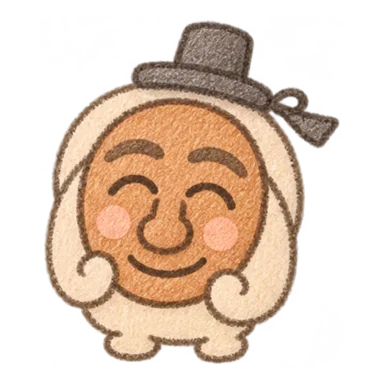
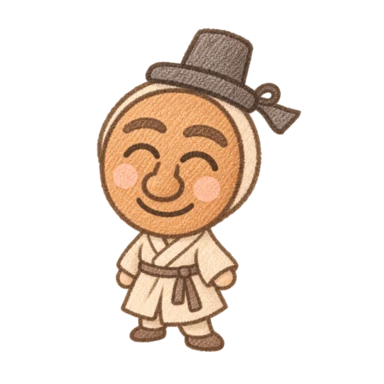
곰고미 0.9.65 · 도롱이의 그림, 움직임과 오프라인 AI

diff --git a/src/features/home/HomeView.tsx b/src/features/home/HomeView.tsx
@@ -162,8 +162,7 @@ export function HomeView({ today, itemCount, albumCount, diaryCount, onShowLibra
     }
     if (context.definition.activityVoices && context.action === "touch") {
       const tone = owned.affection >= 20 ? "highAffection" : "idle";
-      showActivityReply(chooseCompanionFallback(owned.id, dialogueLines(context.definition, owned.growthStage, tone, owned.affection)));
-      return;
+      context = { ...context, fallback: chooseCompanionFallback(owned.id, dialogueLines(context.definition, owned.growthStage, tone, owned.affection)) };
     }
     setAiStatus("generating");
     retryContext.current = { ...context, owned };
@@ -183,7 +182,7 @@ export function HomeView({ today, itemCount, albumCount, diaryCount, onShowLibra
       basis:restLine || lines[next], touchLines:lines,
     }));
     setSpokenLine(undefined);
-    setAiStatus(definition.activityVoices || (isGomi && !gomiCanSpeak(mainCharacter.affection)) ? "idle" : "generating");
+    setAiStatus(isGomi && !gomiCanSpeak(mainCharacter.affection) ? "idle" : "generating");
     setAiFailure("");
     if (definition && mainCharacter) {
       const memory = readCompanionMemory(mainCharacter.id);
@@ -221,12 +220,11 @@ export function HomeView({ today, itemCount, albumCount, diaryCount, onShowLibra
     saveCompanionMemory(mainCharacter.id, result.memory);
     setAiFailure("");
     const voice = definition.activityVoices?.[action];
-    if (voice?.length) {
-      showActivityReply(chooseCompanionFallback(mainCharacter.id, voice));
-    } else if (action === "treat" && definition.treatLabel) {
+    if (action === "treat" && definition.treatLabel) {
       showActivityReply(result.line);
     } else {
-      const fallback = isGomi && !gomiCanSpeak(mainCharacter.affection) ? "" : chooseCompanionFallback(mainCharacter.id, companionFallbackCandidates({
+      const fallback = voice?.length ? chooseCompanionFallback(mainCharacter.id, voice) :
+        isGomi && !gomiCanSpeak(mainCharacter.affection) ? "" : chooseCompanionFallback(mainCharacter.id, companionFallbackCandidates({
         gomi:Boolean(isGomi), affection:mainCharacter.affection, action, sleeping, disturbed, basis:result.line,
       }));
       setSpokenLine(undefined);
@@ -270,7 +268,6 @@ export function HomeView({ today, itemCount, albumCount, diaryCount, onShowLibra
                   aiStatus === "failed" ? aiFailure :
                   aiStatus === "watching" ? `${definition ? characterName(definition, mainCharacter) : "친구"}의 모습을 조용히 지켜보고 있어요.` :
                   isGomi && !gomi.ready ? "친구를 준비하고 있어요." :
-                  definition?.activityVoices ? "친구를 터치해 말을 걸어 보세요." :
                   definition ? "친구를 터치하면 AI가 새로운 대사를 만들어요." : "친구를 선택하면 AI와 대화할 수 있어요."}
               </p>}
           {aiStatus === "failed" && retryContext.current && <button type="button" className="homeReactionRetry" onClick={() => {
@@ -280,6 +277,12 @@ export function HomeView({ today, itemCount, albumCount, diaryCount, onShowLibra
             setAiFailure("");
             ai.react(context);
           }}>대사 다시 생성</button>}
+          {aiStatus === "failed" && definition?.activityVoices && retryContext.current?.fallback && (
+            <button type="button" className="homeReactionRetry" onClick={() => {
+              const context = retryContext.current;
+              if (context?.owned.id === mainCharacter?.id && context?.fallback) showActivityReply(context.fallback);
+            }}>기본 대사 보기</button>
+          )}
         </div>
         <button className={`homeMascot${happy ? " happy" : ""}`} type="button" aria-label={`${definition ? characterName(definition, mainCharacter) : "곰고미"}에게 말 걸기`} onClick={talk}>
           {definition && mainCharacter ? <CharacterVisual definition={definition} stage={mainCharacter.growthStage} expression={happy ? "happy" : "idle"}
@@ -289,7 +292,7 @@ export function HomeView({ today, itemCount, albumCount, diaryCount, onShowLibra
         </button>
         {definition && mainCharacter && <p className="homeCharacterMeta"><strong>{characterName(definition, mainCharacter)}</strong><span className="homeAffection"><Heart size={14} aria-hidden="true" />친밀도 {mainCharacter.affection}</span></p>}
         {definition && mainCharacter && <div className="homeActivities">
-          {!definition.activityVoices && <button type="button" className="homeActivitiesToggle" data-help="companion-ai" onClick={() => setAiSetupOpen(true)}>AI 반응 설정</button>}
+          <button type="button" className="homeActivitiesToggle" data-help="companion-ai" onClick={() => setAiSetupOpen(true)}>AI 반응 설정</button>
           <button type="button" className="homeActivitiesToggle" aria-expanded={activitiesOpen} aria-controls="homeActivitiesChoices"
             data-help="companion-actions" onClick={() => setActivitiesOpen(value => !value)}>
             함께하기 <ChevronDown size={17} aria-hidden="true" className={activitiesOpen ? "expanded" : ""} />

diff --git a/src/features/characters/ownAi/worker.ts b/src/features/characters/ownAi/worker.ts
@@ -1,27 +1,40 @@
 import {generateOwnLine, loadOwnModel, type OwnInput} from "./engine";
 
-// This URL is an APK/Vite-owned asset, never a remote model service.
-const loadStarted = performance.now();
-const loaded = fetch(new URL("/character-ai/manifest.json", self.location.origin),{cache:"no-store"}).then(async manifestResponse => {
-  if (!manifestResponse.ok) throw new Error("AI_OWN_MODEL_MISSING");
-  const manifest=await manifestResponse.json();
-  if (manifest.id!=="own-character-v3"||manifest.file!=="model.json"||manifest.bytes>2_000_000||!/^[0-9a-f]{64}$/.test(manifest.sha256)) throw new Error("AI_OWN_MODEL_INVALID");
-  const response=await fetch(new URL("/character-ai/model.json",self.location.origin),{cache:"no-store"});
+type Weights = {file:string;bytes:number;sha256:string};
+async function loadWeights(asset: Weights | undefined, filename: "model.json" | "dorongi.json") {
+  if (!asset || asset.file!==filename || asset.bytes>2_000_000 || !/^[0-9a-f]{64}$/.test(asset.sha256)) throw new Error("AI_OWN_MODEL_INVALID");
+  const response=await fetch(new URL("/character-ai/"+filename,self.location.origin),{cache:"no-store"});
   if (!response.ok) throw new Error("AI_OWN_MODEL_MISSING");
   const bytes = await response.text();
   if (bytes.length > 2_000_000) throw new Error("AI_OWN_MODEL_INVALID");
   const encoded=new TextEncoder().encode(bytes);
   const digest=Array.from(new Uint8Array(await crypto.subtle.digest("SHA-256",encoded)),x=>x.toString(16).padStart(2,"0")).join("");
-  if(encoded.length!==manifest.bytes||digest!==manifest.sha256) throw new Error("AI_OWN_MODEL_INVALID");
-  const model = loadOwnModel(JSON.parse(bytes));
-  self.postMessage({type:"ready", bytes:new TextEncoder().encode(bytes).length, loadMs:performance.now()-loadStarted});
-  return model;
+  if(encoded.length!==asset.bytes||digest!==asset.sha256) throw new Error("AI_OWN_MODEL_INVALID");
+  return loadOwnModel(JSON.parse(bytes));
+}
+
+// The manifest and both weight files are APK/Vite-owned assets.
+const loadStarted = performance.now();
+const loaded = fetch(new URL("/character-ai/manifest.json", self.location.origin),{cache:"no-store"}).then(async response => {
+  if (!response.ok) throw new Error("AI_OWN_MODEL_MISSING");
+  const manifest=await response.json();
+  if (manifest.id!=="own-character-v3") throw new Error("AI_OWN_MODEL_INVALID");
+  const model=await loadWeights(manifest,"model.json");
+  self.postMessage({type:"ready", bytes:manifest.bytes, loadMs:performance.now()-loadStarted});
+  return {model,dorongi:manifest.dorongi as Weights | undefined};
 });
 loaded.catch(error => self.postMessage({type:"load-error",error:String(error)}));
+let dorongiLoaded: ReturnType<typeof loadWeights> | undefined;
 self.onmessage = async (event: MessageEvent<{id:number;input:OwnInput;seed:number}>) => {
   const {id,input,seed} = event.data;
   try {
-    const model = await loaded, started = performance.now();
+    const base = await loaded, started = performance.now();
+    const model = input.characterId==="apple"
+      ? await (dorongiLoaded ??= loadWeights(base.dorongi,"dorongi.json").catch(error => {
+          dorongiLoaded = undefined;
+          throw error;
+        }))
+      : base.model;
     const line = generateOwnLine(model,input,seed);
     self.postMessage({id,type:"reply",line,generationMs:performance.now()-started});
   } catch (error) { self.postMessage({id,type:"error",error:String(error)}); }

diff --git a/tests/characters.spec.ts b/tests/characters.spec.ts
@@ -402,11 +402,12 @@ test('all current designs are legible in a narrow book and the seagull gift foll
   await page.screenshot({path:'preview-results/audit/seagull-home-393.png'});
 });
 
-test('Dorongi speaks in his own voice on touch, in activities and in Help', async ({page}) => {
+test('Dorongi offers his own basic lines when AI fails and still speaks in Help', async ({page}) => {
   await installSnapshot(page,[companion('apple',3,true)]);
   await page.goto('/');
   const mascot=page.getByRole('button',{name:'도롱이에게 말 걸기',exact:true});
   const reply=page.locator('#homeMessage[data-source="activity"]');
+  const basic=page.getByRole('button',{name:'기본 대사 보기',exact:true});
   const scholar = JSON.parse(readFileSync('src/features/characters/data/characterDefinitions.json','utf8'))
     .find((friend:{id:string})=>friend.id==='apple') as {
       dialogues:{situations:{idle:string[]};stages:Record<string,string[]>};
@@ -414,13 +415,18 @@ test('Dorongi speaks in his own voice on touch, in activities and in Help', asyn
       personality:{helpVoices:string[][]};
     };
   const touchLines=[...scholar.dialogues.situations.idle,...scholar.dialogues.stages['3']];
-  const expectReply=async (pool:string[])=>expect.poll(async()=>pool.includes(await reply.innerText())).toBe(true);
+  const expectReply=async (pool:string[])=>{
+    await expect(page.locator('#homeMessage')).toHaveAttribute('data-state','failed');
+    await expect(page.getByRole('button',{name:'대사 다시 생성',exact:true})).toBeVisible();
+    await basic.click();
+    await expect.poll(async()=>pool.includes(await reply.innerText())).toBe(true);
+  };
   await mascot.click();
   await expectReply(touchLines);
   const first=await reply.innerText();
   await mascot.click();
-  await expect(reply).not.toHaveText(first);
   await expectReply(touchLines);
+  await expect(reply).not.toHaveText(first);
   await expect(page.locator('.homeCharacterMeta')).toContainText('친밀도 1');
   await page.getByRole('button',{name:'함께하기',exact:true}).click();
   for (const [action,label] of [['walk','함께 산책'],['treat','햇살 선물'],['pet','쓰다듬기'],['play','함께 놀기'],['rest','함께 쉬기']]) {
@@ -437,11 +443,12 @@ test('Dorongi speaks in his own voice on touch, in activities and in Help', asyn
   await expect.poll(async()=>scholar.personality.helpVoices[0].includes(await help.locator('.helpVoice').innerText())).toBe(true);
 });
 
-test('Dorongi keeps a saved nickname and shares his feelings when closer', async ({page}) => {
+test('Dorongi keeps a saved nickname and his close basic dialogue', async ({page}) => {
   await installSnapshot(page,[{...companion('apple',3,true),customName:'해실',affection:29}]);
   await page.goto('/');
   const mascot=page.getByRole('button',{name:'해실에게 말 걸기',exact:true});
   await mascot.click();
+  await page.getByRole('button',{name:'기본 대사 보기',exact:true}).click();
   await expect(page.locator('#homeMessage[data-source="activity"]')).toHaveText(
     '그대가 내 이름을 먼저 불러 주니, 오늘은 숨을 곳이 없구려. …기쁜 뜻이오.',
   );

diff --git a/tests/own-companion-chat.spec.ts b/tests/own-companion-chat.spec.ts
@@ -31,6 +31,31 @@ test('real bundled model produces short new lines for five actions without exter
   await expect(page.locator('.homeCharacterMeta')).toContainText('친밀도 95');expect(external).toEqual([]);
 });
 
+test('Dorongi uses the locally bundled voice for touch and all five actions', async ({page}) => {
+  await installOwnAi(page,{characterId:'apple',affection:44});
+  await page.goto('/');
+  const bubble=page.locator('#homeMessage');
+  const expectVoice=async (meaning:RegExp)=>{
+    await expect(bubble).toHaveAttribute('data-source','on-device');
+    await expect(bubble).toContainText(meaning);
+    await expect(bubble).toContainText(/소[.!?]|구려[.!?]|시게[.!?]|하오[.!?]|오[.!?]|십시다[.!?]/);
+  };
+  await page.getByRole('button',{name:'도롱이에게 말 걸기',exact:true}).click();
+  await expectVoice(/이름|잊으신|불러/);
+  await expect(page.locator('.homeCharacterMeta')).toContainText('친밀도 45');
+  await page.getByRole('button',{name:'함께하기',exact:true}).click();
+  for(const [label,meaning] of [
+    ['함께 산책', /길|걷|걸/], ['햇살 선물', /볕|햇살|따뜻|따스/],
+    ['쓰다듬기', /손|모자/], ['함께 놀기', /차례|판|놀이|웃어/], ['함께 쉬기', /쉬|곁|자리|말이/],
+  ] as const){
+    await page.getByRole('button',{name:label,exact:true}).click();
+    await expectVoice(meaning);
+  }
+  await page.getByRole('button',{name:'지켜보기',exact:true}).click();
+  await expect(bubble).toHaveAttribute('data-state','watching');
+  expect((await requestedInputs(page)).map((input:{action:string})=>input.action)).toEqual(['touch','walk','treat','pet','play','rest']);
+});
+
 test('silent Gomi completes a fresh saved interaction without inference below the threshold',async({page})=>{
   await installOwnAi(page,{affection:58});await page.goto('/');await page.locator('.homeMascot').click();
   const bubble=page.locator('#homeMessage');await expect(bubble).toHaveAttribute('data-state','quiet');

diff --git a/tests/fixtures/own-ai.ts b/tests/fixtures/own-ai.ts
@@ -1,7 +1,7 @@
 import type {Page} from '@playwright/test';
 
 type Options = {
-  characterId?: 'gomi' | 'potato'; affection?: number; sleeping?: boolean;
+  characterId?: 'gomi' | 'potato' | 'apple'; affection?: number; sleeping?: boolean;
   interactionDelay?: number; saveError?: boolean; holdSaves?: boolean;
   worker?: {delay?: number; error?: string; controlled?: boolean};
 };
@@ -32,7 +32,7 @@ export async function installOwnAi(page:Page,options:Options={}) {
       postMessage(message:any,options?:any){if(message?.input)probe.requests.push(message.input);super.postMessage(message,options);}
     };
     let interacted=false,disturbances=0;
-    const characters=['gomi','potato'].map(id=>({id,customName:null,growthStage:6,affection:settings.affection??75,isMain:id===(settings.characterId??'gomi')}));
+    const characters=[...new Set(['gomi','potato',settings.characterId??'gomi'])].map(id=>({id,customName:null,growthStage:6,affection:settings.affection??75,isMain:id===(settings.characterId??'gomi')}));
     const snapshot=()=>({characters:characters.map(owned=>({...owned})),events:[]});
     (window as any).__TAURI_INTERNALS__={convertFileSrc:()=>'/favicon.png',invoke:async(command:string,args:any={})=>{
       probe.native.push(command);

diff --git a/src/features/characters/companionBehavior.ts b/src/features/characters/companionBehavior.ts
@@ -58,6 +58,11 @@ export function companionMotionAnimation(motion: CompanionMotion, signature: str
     case "play": Object.assign(keyframes,{ x:[0,-5,5,0],y:[0,-hop,0,-hop*.8,0],rotate:[0,-tilt,tilt,0] }); duration=1.7; break;
     case "rest": Object.assign(keyframes,{ y:[13,12,13],rotate:[-5,-5,-5],scaleX:[1.10,1.095,1.10],scaleY:[.86,.87,.86] }); duration=6; break;
   }
+  if (signature === "quiet-nod") {
+    // Dorongi's wooden mask stays rigid, including between animated poses.
+    keyframes.scaleX = keyframes.scaleY = 1;
+    if (motion === "stretch") Object.assign(keyframes,{ y:[-4,-8,-4],rotate:[-2,-4,-2] });
+  }
   return { keyframes, duration, repeat:motion === "idle" || motion === "rest" || homePoses.has(motion) ? Infinity : 0 };
 }
 

diff --git a/local-ai/own/train.py b/local-ai/own/train.py
@@ -220,9 +220,26 @@ def quantized(tensor):
             'scales':base64.b64encode(scales.tobytes()).decode()}
 
 
+def dorongi_rows(path):
+    drafts=read(path)
+    for action, group in drafts['actions'].items():
+        for name, affection in [('distant',10), ('familiar',45), ('close',80)]:
+            for pi, opening in enumerate(group[name]):
+                for ei, ending in enumerate(group['end']):
+                    if (pi+ei)%4 == 0:
+                        continue
+                    reply=f'{opening} {ending}'
+                    if not 4<=len(reply)<=50:
+                        raise ValueError(f'Dorongi reply exceeds the mobile limit: {reply}')
+                    for value in (0,1,3):
+                        yield {'characterId':'apple','action':action,'reply':reply,'affection':affection,
+                               'energy':value,'authorship':drafts['authorship']}
+
+
 def train(args):
     rng = random.Random(args.seed)
-    rows = corpus(args.extra)
+    source = HERE/('dorongi-drafts.json' if args.dorongi else 'corpus.json')
+    rows = list(dorongi_rows(source)) if args.dorongi else corpus(args.extra)
     vocab = ['<bos>','<eos>','<pad>','<unk>'] + sorted({t for r in rows for t in words(r)})
     feature_names = sorted({f for r in rows for f in features(r)}|{'mood:'+m for m in MOODS})
     tok = {t:i for i,t in enumerate(vocab)}
@@ -259,20 +276,22 @@ def train(args):
             'trainingTool':'first-party forward/backprop/AdamW; NumPy matrix arithmetic on PC only',
             'dataAuthorshipCounts':dict(Counter(r.get('authorship','unknown') for r in rows)),
             'syntheticDraftAuthor':'AI coding assistant in this session; not human-approved. No teacher-model API is called by the trainer.',
-            'sourceCorpusSha256':sha(HERE/'corpus.json'),'trainerSha256':sha(Path(__file__)),
+            'sourceCorpusSha256':sha(source),'trainerSha256':sha(Path(__file__)),
             'learningAlgorithmSha256':sha(HERE/'neural.py'),
             'seed':args.seed,'epochs':args.epochs,'rows':len(rows),'wordExamples':len(y),
-            'speechPolicy':'normal Gomi below affection 60 is nonverbal before inference; cold/unwell source exceptions preserved',
+            'speechPolicy':('Dorongi only; awake Home actions' if args.dorongi else
+                'normal Gomi below affection 60 is nonverbal before inference; cold/unwell source exceptions preserved'),
             'parameters':sum(p.size for p in model.params.values()),'trainingSeconds':round(time.perf_counter()-started,3),
             'trainingLoss':loss_value, 'commercialLegalClearance':False},
     }
-    destination = ROOT/'src/features/characters/ownAi/model.json'
+    destination = ROOT/'src/features/characters/ownAi'/('dorongi.json' if args.dorongi else 'model.json')
     if len(json.dumps(artifact,ensure_ascii=False,separators=(',',':')).encode('utf-8'))>2_000_000:
         raise ValueError('Own model and learned support exceed the two-megabyte mobile budget')
     dump(destination,artifact)
-    np.savez(HERE/'checkpoint.npz',**model.params)
-    dump(HERE/'training-result.json',{'model':str(destination.relative_to(ROOT)),'bytes':destination.stat().st_size,
-         'sha256':sha(destination),'device':device,'provenance':artifact['provenance']})
+    if not args.dorongi:
+        np.savez(HERE/'checkpoint.npz',**model.params)
+        dump(HERE/'training-result.json',{'model':str(destination.relative_to(ROOT)),'bytes':destination.stat().st_size,
+             'sha256':sha(destination),'device':device,'provenance':artifact['provenance']})
     print(json.dumps({'finished':True,'bytes':destination.stat().st_size,'parameters':artifact['provenance']['parameters'],
                       'rows':len(rows),'sha256':sha(destination)}),flush=True)
 
@@ -283,6 +302,8 @@ if __name__ == '__main__':
     parser.add_argument('--lr',type=float,default=0.006)
     parser.add_argument('--seed',type=int,default=20261115)
     parser.add_argument('--extra',type=Path,help='Optional user-authored JSONL with new actions/character examples')
+    parser.add_argument('--dorongi',action='store_true',help='Train only Dorongi without altering the existing model or corpus')
     args=parser.parse_args()
+    if args.dorongi and args.extra:parser.error('Dorongi uses only the versioned Dorongi draft file')
     if args.epochs<1 or not 0<args.lr<1:parser.error('epochs must be positive and learning rate must be between zero and one')
     train(args)

diff --git a/docs/character-design-0.9.61.md b/docs/character-design-0.9.61.md
@@ -63,3 +63,11 @@
 ## 0.9.64 도롱이의 성격과 말투
 
 하회탈 친구의 기본 이름을 해실에서 도롱이로 바꿨다. 도롱이는 먼저 나서기보다 친구가 놓친 일을 조용히 거든다. 불러 주지 않으면 가끔 서운함을 비치고, 가까워지면 기다렸다는 말도 건넨다. 홈과 함께하기에서는 조선풍 하오체와 하게체를 쓰고, 도움말은 짧은 인사 뒤 현대어로 안내한다. 직접 붙인 별명은 그대로 보이며 그림과 성장 기록을 이어 간다.
+
+## 0.9.65 도롱이의 그림, 움직임, 오프라인 AI
+
+색연필로 그린 하회탈과 검은 모자를 살리고, 허리띠와 발이 보이는 선비옷으로 바꿨다. 도롱이는 기지개를 펼 때도 그림 비율을 유지하며 이동과 기울기로 움직인다.
+
+홈에서 말을 걸거나 함께하기를 누르면 기존 오프라인 추론기가 도롱이 전용 가중치로 상황에 맞는 짧은 조선풍 대사를 생성한다. 생성이 실패하면 같은 행동을 다시 시도하거나 기본 대사를 볼 수 있다. 지켜보기와 도움말은 추론을 시작하지 않는다. 고미와 다른 친구들의 가중치와 기존 저장 기록은 유지한다.
+
+도롱이 가중치는 `python local-ai/own/train.py --dorongi --epochs 80`으로 별도 학습한다. `local-ai/own/dorongi-drafts.json`에는 출처를 밝힌 학습 초안이 들어 있다.
